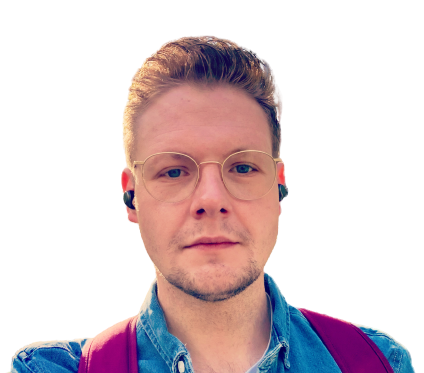
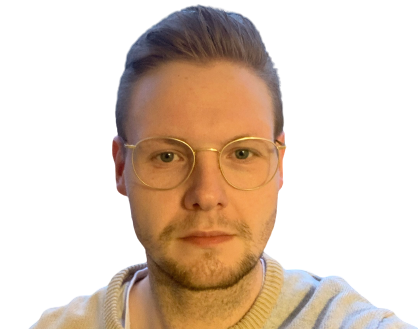
add

diff --git a/src/components/about/about.css b/src/components/about/about.css
@@ -1,0 +1,90 @@
+.a {
+    height: 100vh;
+    display: flex;
+    align-items: center;
+  }
+  
+  .a-left {
+    flex: 1;
+    display: flex;
+    align-items: center;
+    justify-content: center;
+    position: relative;
+    height: 100%;
+  }
+  
+  .a-right {
+    flex: 1;
+  }
+  
+  .a-card.bg {
+    position: absolute;
+    top: 50px;
+    left: 50px;
+    background-color: #333;
+  }
+  
+  .a-card {
+    width: 60%;
+    height: 70vh;
+    border-radius: 30px;
+    position: relative;
+    overflow: hidden;
+  }
+  
+  .a-img {
+    width: 100%;
+    height: 100%;
+    object-fit: cover;
+  }
+  
+  .a-award-img {
+    width: 120px;
+    height: 120px;
+    border-radius: 20px;
+  }
+  
+  .a-title {
+    font-weight: 400;
+  }
+  
+  .a-sub {
+    margin: 20px 0px;
+  }
+  
+  .a-desc{
+      font-weight: 300;
+  }
+  
+  .a-award{
+      margin-top: 50px;
+      display: flex;
+      align-items: center;
+      justify-content: space-between;
+  }
+  
+
+  
+  @media screen and (max-width:480px) {
+      .a{
+        flex-direction: column;
+        text-align: center;
+        margin-top: 50px;
+      }
+  
+      .a-left {
+        width: 100%;
+      }
+  
+      .a-card {
+        height: 30vh;
+      }
+  
+      .a-card.bg, .a-award {
+        display: none;
+      }
+  
+      .a-right{
+        padding: 20px;
+      }
+  }

diff --git a/src/components/about/about.jsx b/src/components/about/about.jsx
@@ -1,0 +1,31 @@
+import "./about.css"
+import meabout from "../../img/meabout.jpg"
+const About = () => {
+    return (
+        <div className="a">
+            <div className="a-left">
+                <div className="a-card bg"></div>
+                <div className="a-card">
+                    <img src={meabout}
+                        alt=""
+                        className="a-img"/>
+                </div>
+            </div>
+            <div className="a-right">
+                <h1 className="a-title">About Me</h1>
+                <p className="a-sub">
+                    It is a long established fact that a reader will be distracted by the
+                                                    readable content.
+                </p>
+                <p className="a-desc">
+                    Lorem ipsum dolor sit amet, consectetur adipiscing elit, sed do
+                                                    eiusmod tempor incididunt ut labore et dolore magna aliqua. Ut enim ad
+                                                    minim veniam, quis nostrud exercitation ullamco laboris nisi ut
+                                                    aliquip ex ea commodo consequat duis aute irure dolor in reprehende.
+                </p>
+            </div>
+        </div>
+    );
+};
+
+export default About;

diff --git a/src/components/intro/intro.css b/src/components/intro/intro.css
@@ -78,16 +78,16 @@
 }
 
 .i-img {
-    width: 100%;
-    height: 100%;
+    width: 80%;
     object-fit: cover;
     position: absolute;
     right: 0;
+    bottom: 0
 }
 
 .i-bg {
     clip-path: polygon(25% 0%, 100% 0%, 100% 100%, 25% 100%, 0% 50%);
-    background-color: green;
+    background-color: rgb(210, 210, 210);
     width: 100%;
     height: 100%;
     position: absolute;

diff --git a/src/App.js b/src/App.js
@@ -1,8 +1,12 @@
 import './App.css';
 import Intro from './components/intro/intro';
+import About from './components/about/about';
 
 const App = () => {
-  return <div><Intro /></div>
+  return <div>
+    <Intro />
+    <About />
+    </div>
 }
 
 export default App;
